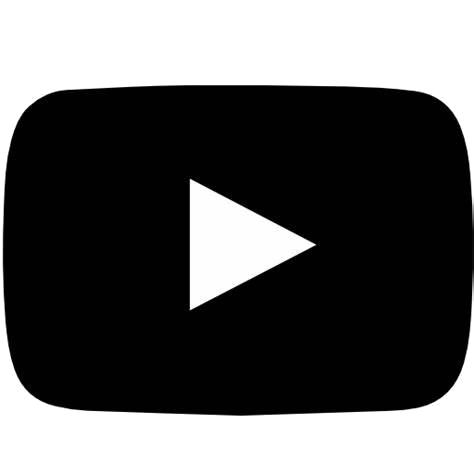
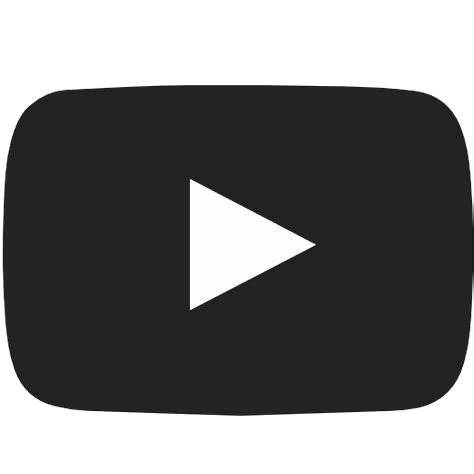
Style: Organizando imagens da thumbnails na tela

diff --git a/style.css b/style.css
@@ -1,4 +1,4 @@
-*{
+* {
   box-sizing: border-box;
   font-family: 'Nunito', sans-serif;
   padding: 0px;
@@ -6,12 +6,12 @@
   outline: none;
 }
 
-body{
+body {
   background-color: #242424;
   color: #f2f1f1;
 }
 
-header{
+header {
   padding: 8px;
   background-color: #df2525;
   display: flex;
@@ -22,29 +22,29 @@ header{
   margin-bottom: 24px;
 }
 
-header h1{
-font-size: 24px;
+header h1 {
+  font-size: 24px;
 }
 
-header img{
+header img {
   width: 40px;
   height: 40px;
 }
 
-.introduction{
+.introduction {
   max-width: 600px;
   padding: 20px;
-  margin: 0 auto ;
+  margin: 0 auto;
   text-align: center;
 }
 
-.introduction p{
+.introduction p {
   margin-top: 4px;
   color: #bbb;
   text-align: left;
 }
 
-#form{
+#form {
   max-width: 420px;
   padding: 18px;
   margin: 0 auto;
@@ -54,11 +54,11 @@ header img{
   gap: 16px;
 }
 
-#form label{
+#form label {
   align-self: flex-start;
 }
 
-#form input{
+#form input {
   width: 100%;
   border: none;
   border-radius: 8px;
@@ -67,7 +67,7 @@ header img{
   font-size: 15px;
 }
 
-.button-form{
+.button-form {
   background-color: #df2525;
   width: 120px;
   color: #f2f1f1;
@@ -79,14 +79,14 @@ header img{
   transition: all 0.3s;
 }
 
-.container-thumbnails{
+.container-result {
   display: none;
   grid-template: auto / 1fr 1fr;
   padding: 24px;
   gap: 8px;
 }
 
-.card-thumbnail{
+.card-explaining {
   margin: 0 auto;
   display: flex;
   align-items: center;
@@ -95,18 +95,47 @@ header img{
   height: 270px;
 }
 
-.card-thumbnail img{
-  width: 90%;
+.container-thumbnails {
+  text-align: center;
 }
 
-.container-buttons-download{
+.cards-thumbnails {
+  max-height: 500px;
+  box-shadow: inset 10px 10px 10px #202020;
+  padding: 40px;
+  overflow-y: scroll;
   display: flex;
   flex-direction: column;
   align-items: center;
-  gap: 12px;
+  gap: 48px;
 }
 
-.button-download{
+.card-thumbnail{
+  width: 500px;
+}
+
+.card-thumbnail > p{
+  font-size: 18px;
+  padding: 4px;
+  font-weight: 500;
+}
+
+.card-thumb1>img,
+.card-thumb2>img {
+  width: 320px;
+}
+
+.card-thumb3>img,
+.card-thumb4>img {
+  width: 480px;
+}
+
+
+
+
+
+
+/* .button-download{
   background-color: #df2525;
   color: #f2f1f1;
   border: none;
@@ -120,4 +149,4 @@ header img{
 
 .button-form:hover, .button-download:hover{
   background-color: #aa2121;
-}
+} */
